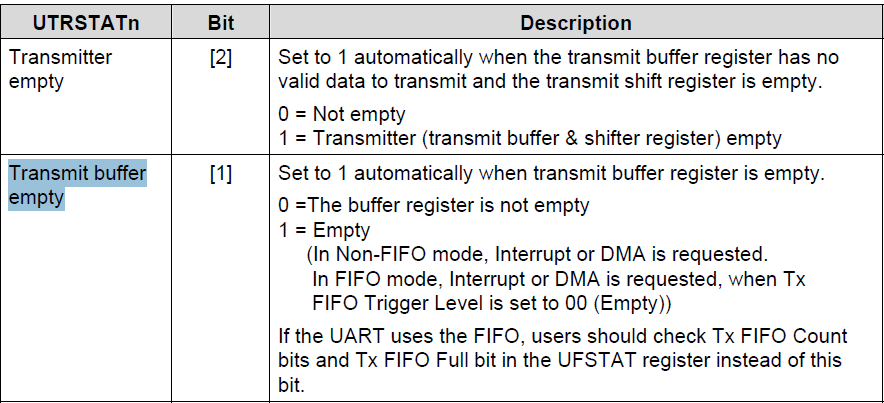
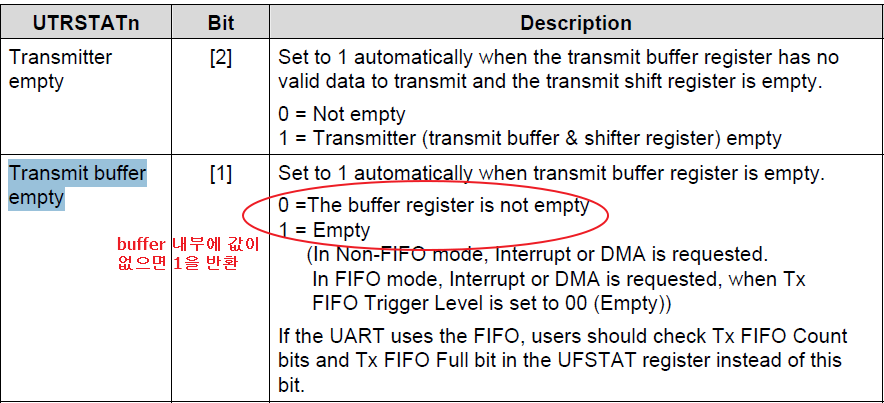
week5 day2 file update

diff --git a/new/w5d2/device_control_day2.md b/new/w5d2/device_control_day2.md
@@ -1,49 +1,49 @@
 # 2일차
 ## 풀업 풀다운 저항과 회로
 ![](./pullup_down.png)
--I2C : 선 두가닥으로 IO 제어
-    I2C 버스는 SDA(Serial Data)와 SCL(Serial Clock) 두개의 신호선으로 구성
-    ![](./0611_004.png)
-    - IICSCL : 제 3의 기능(INPUT도 아니고 OUTPUT도 아닌...)(I2C 방식)
-- mI2C_SCL : 꼭 풀업,풀다운 저항을 달아줘야하는 통신방식
-
-BASED와 EXTEND 보드에 보고 CON11인것을 찾고
-
-통신
-- TX : 보낸다.
-- RX : 받는다.
-
+- 풀업 풀다운 사용 이유
+  - 플로팅을 없애고 애매한 신호값을 high, low 값으로 컨트롤된 신호로 받기위해(?)
+## I2C 통신   
 - RS232c 트랜시버(트랜스와 리시버의 합성어, 디지털신호를 보내고 받는다.)
   - 선 두가닥으로 하나는 보내고 하나는 받는다. 
 - I2C(Inter-Integrated Circuit) 
   - 필립스에서 개발한 직렬 컴퓨터 버스이며 여러 개의 저속의 주변 기기를 연결하기 위해 사용된다. 시리얼 통신에 사용되는 UART 또는 SPI들보다 더 단순하여 심플한 회로 구성이 가능하다
-  - 한 가닥은 클럭으로 사용(uart는 한가닥으로 사용)
-- UART(범용 비동기화 송수신기: Universal asynchronous receiver/transmitter)는 병렬 데이터의 형태를 직렬 방식으로 전환하여 데이터를 전송하는 컴퓨터 하드웨어의 일종이다.
-- 다용도 입출력(general-purpose input/output, GPIO)은 입력이나 출력을 포함한 동작이 런타임 시에 사용자에 의해 제어될 수 있는, 집적 회로나 전기 회로 기판의 디지털 신호 핀이다. GPIO는 특정한 목적이 미리 정의되지 않으며 기본적으로는 사용되지 않는다.
+  - 선 두가닥으로 IO 제어
+![](./0616_001.png)  
+![](./0616_002.png)  
+    - 한 가닥은 클럭으로 사용(uart는 한가닥으로 사용)
+    - I2C 버스는 SDA(Serial Data)와 SCL(Serial Clock) 두개의 신호선으로 구성
+    - IICSCL, IICSDA : 제 3의 기능(INPUT도 아니고 OUTPUT도 아닌...)(I2C 방식)
+  - mI2C_SCL : 꼭 풀업,풀다운 저항을 달아줘야하는 통신방식
+- [UART와 I2C 차이점](http://stackrefactoring.blogspot.com/2017/09/serial-uart-vs-spi-vs-i2c.html)
 
-[UART와 I2C 차이점](http://stackrefactoring.blogspot.com/2017/09/serial-uart-vs-spi-vs-i2c.html)
-
-### 바이너리 파일, 텍스트 파일
+> 바이너리 파일, 텍스트 파일
 - 바이너리 파일 : 오브젝트 파일
   - EX> 3400 -> 34란 0x34인지 데이터 34인지 알수없어
+  - hexdump -C exception.o |more : 리눅스 환경에서 오브젝트 파일 내부 확인가능
 
-
+## UART 통신   
+- UART(범용 비동기화 송수신기: Universal asynchronous receiver/transmitter)는 병렬 데이터의 형태를 직렬 방식으로 전환하여 데이터를 전송하는 컴퓨터 하드웨어의 일종이다.  
+- 비동기 직렬 통신을 지원하는 하드웨어
+- TX : 보낸다. 
+- RX : 받는다. 
+      ![](./0611_004.png)
+	  ![](./0616_003.png)  
 - AMBA : ARM 프로세서에서 만든 버스
   - 버스란 ? information 전달되는 bus
-    - USB
-    - PCI
-    - I2C 의 공통점
-  - 
-![](./0611_114204_001.png)
+    - USB, PCI, I2C가 이동하는 통로의 공통점
+    - usb, pcl i2c 정보가 전달되는 파이프라인, 버스
+  - ![](./0611_114204_001.png)
 ```C
 #define	FCLK		534000000	// 534.000MHz (400MHz)
 #define	HCLK		(FCLK/4)		// 133.000MHz (100MHz)
 #define	PCLK		(FCLK/8)		// 66.0000MHz (50MHz)
 ```
-HCLK : AHB(속도 빨라, 고속도로)
-FCLK : CPU 속도
-PCLK : APB(속도 느려)
+- HCLK : AHB(속도 빨라, 고속도로)
+- FCLK : CPU 속도 
+- PCLK : APB(속도 느려)
 
+* UART 초기화
 ```C
 
 void Uart_Init(int baud)
@@ -68,50 +68,22 @@ void Uart_Init(int baud)
 	rUBRDIV1= ((unsigned int)(PCLK/16./baud+0.5)-1 );
 }
 ```
-- 노하우 
-  - 레지스터 사용하는것만 찾아보기
-    - rGPHCON -> 
+> 소스 파악 노하우  
+> UART 관련 소스 볼때 매뉴얼에서 UART 전부 보는게 아닌  
+> 우선 소스에서 해당 하는 함수에서 사용하는 레지스터만 찾아보기  
+> 위 소스에서 사용한 레지스터   
+> * rGPHCON, rUFCON1, rUMCON1, rULCON1, rUCON1, rUBRDIV1
 
-
-
-
-fasfas
-
-
-asfa
-
-
-![](./0611_002-1.png)
-- minicom 사용
-  - 초기과정
-    - 활성화 시켜주기
-![](./0611_003-1.png)
-    - ~/.bashrc (~ :  자신의 홈디렉토리)
-![](./0611_004-1.png)
-    - ttyS0로 변경
-![](./0611_005.png)
-![](./0611_006.png)
-![](./0611_007.png)
-![](./0611_008.png)
-
-- rUBRDIV1
-![](./0611_015.png)
+- rUBRDIV1 레지스터
+  - 통신 속도를 조절
 ![](./0611_009.png)
 ![](./0611_010.png)
 ![](./0611_011.png)
 ![](./0611_012.png)
-    - buffer 내부에 값이 없으면 1을 반환
-  
-![](./0611_013.png)
-
-![](./0611_013.png)
-
 ![](./0611_014.png)
 ![](./0611_015.png)
 ![](./0611_016.png)
 ![](./0611_017.png)
-- img1
-![](../img1/0611_001.png)
 
 - uart 통신때 
   - loopback 사용하면
@@ -123,21 +95,32 @@ asfa
         ![](./0611_022.png)
 - 줄바꿈 처리 윈도우 리눅스 비교
   - '\n' : newline feed(0A)
-  - '\r' : carriage return(0D), 커서를 맨앞으로 오게
-  - ![](./0611_018.png)
-  - 윈도우에서 파일과 리눅스 파일이 다르게 나올수 있어 
-    - 확인! 윈도우와 리눅스 파일 따로 생성해서  hexdump -C hello.txt
-  - 그래서 0A를 보내려면 0D까지 보내야해!!!
-- ![](./0611_019.png)
+  - '\r' : carriage return(0D), 커서를 맨앞으로 오게  
+  - ![](./0611_018.png)  
+  - 윈도우에서 파일과 리눅스 파일이 다르게 나올수 있어   
+    - 확인! 윈도우와 리눅스 파일 따로 생성해서  hexdump -C hello.txt  
+  - 그래서 0A를 보내려면 0D까지 보내야해!!!  
+  - ![](./0611_019.png)  
 
-- 파일 안깨지게 보내려면
+- UART 통신시 파일을 안깨지게 보내려면
   - ms 에서 만든 하이퍼 터미널을 설치
+
+## minicom 사용
+  - 초기과정
+    - 활성화 시켜주기
+![](./0611_003-1.png)
+    - ~/.bashrc (~ :  자신의 홈디렉토리)
+![](./0611_004-1.png)
+    - ttyS0로 변경
+![](./0611_005.png)
+![](./0611_006.png)
+![](./0611_007.png)
+![](./0611_008.png)
 
 ### 타이머 장치 응용
 1. 시간 지연(delay)
 2. 시간 측정
 3. pwm(신호발생)
-
     - prescaler : 타이머의 속도를 늦추는
 
 ```c
